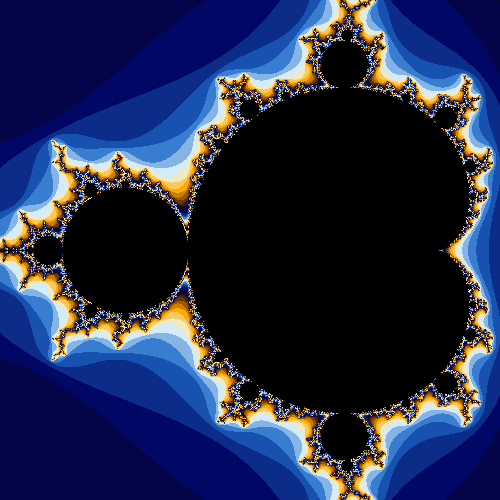
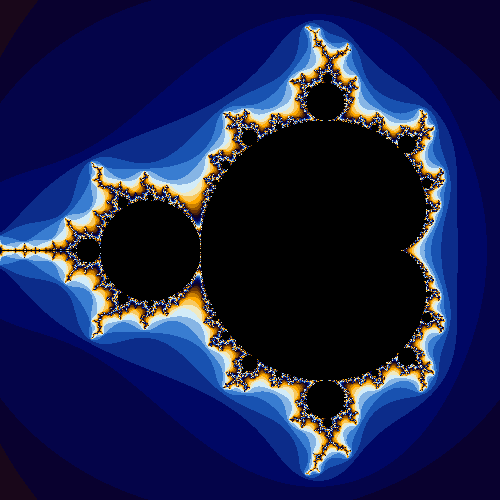
improve default

diff --git a/src/main.rs b/src/main.rs
@@ -19,7 +19,7 @@ struct Args {
     #[arg(short, long, default_value_t = 0.0)]
     y: f64,
     /// zoom
-    #[arg(long, default_value_t = 1.)]
+    #[arg(long, default_value_t = 0.8)]
     zoom: f64,
     /// Number of iterations per pixel
     #[arg(long, default_value_t = 500)]
